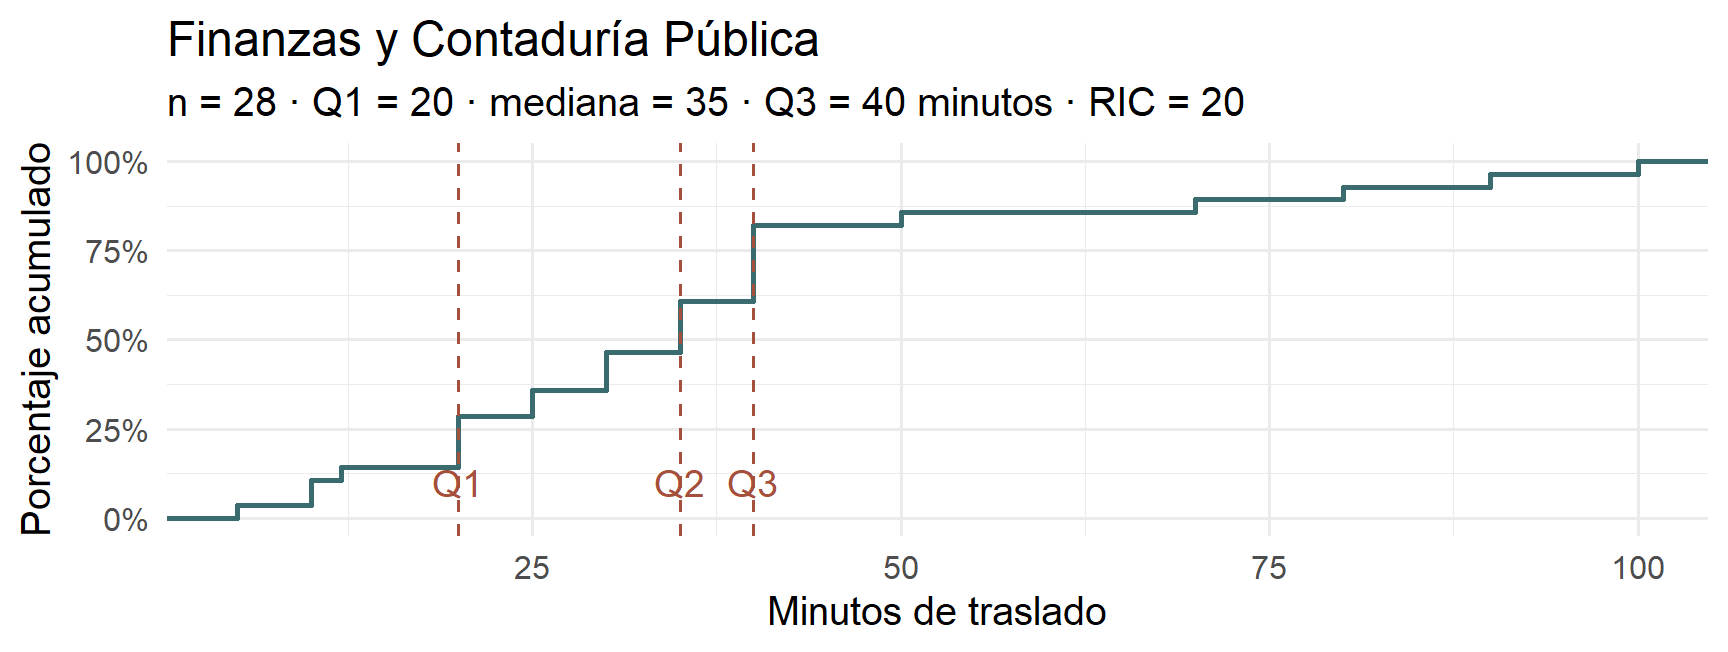
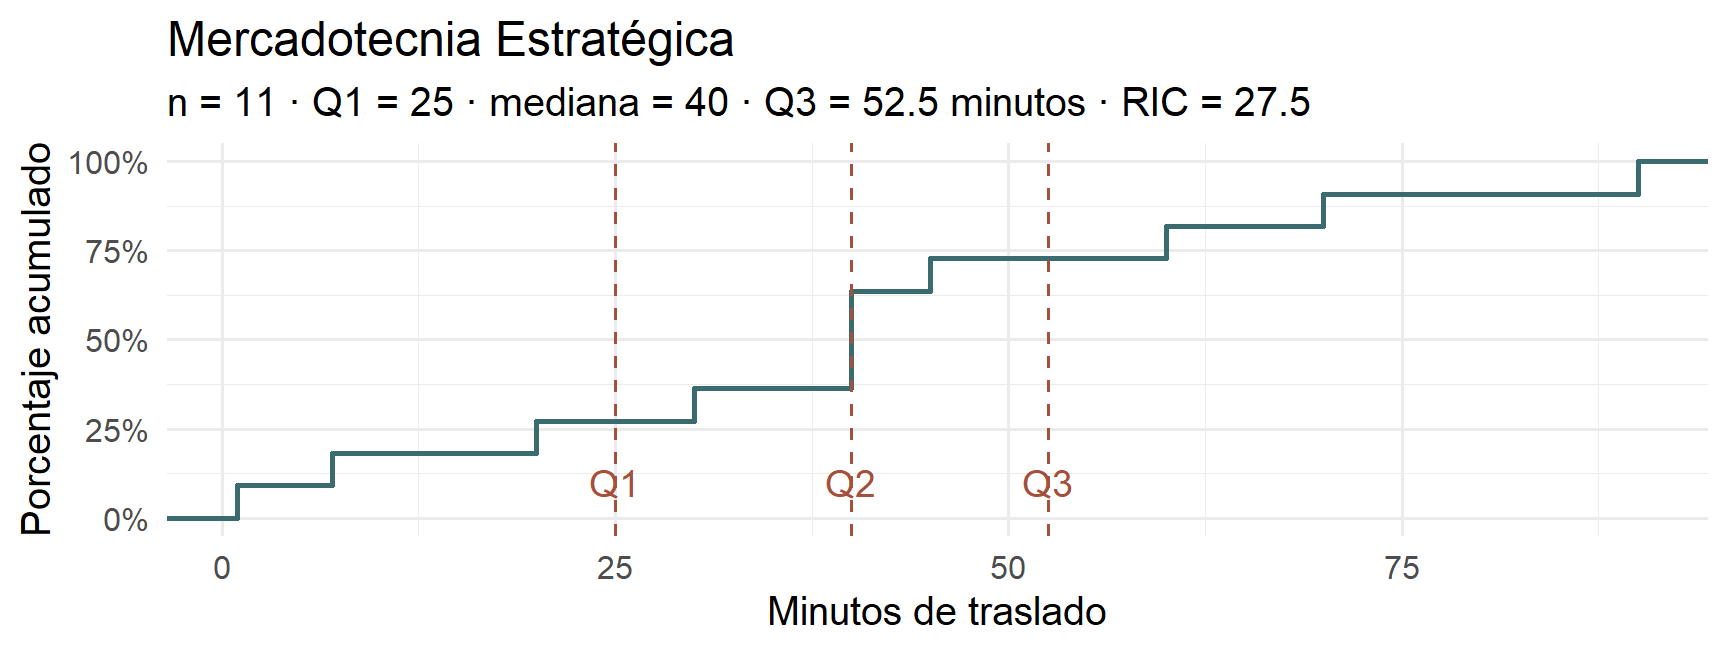
Cierra cuantiles con el diagrama de caja y actualiza el estado de Yahoo
La sesion 10 termina con una lamina que dibuja la caja del traslado y pide
localizar los cinco numeros. La lamina anterior decia que la caja dibuja
exactamente esos cinco numeros; con estos datos es falso: el bigote derecho
termina en 70 minutos y el maximo es 100, porque cuatro respuestas quedan fuera
del alcance que calcula la caja. Esa diferencia se deja como pregunta y abre la
sesion 11, que pasa de presentacion a profundizacion.

La pregunta no dice cuantos puntos quedan fuera: son cuatro respuestas y se ven
tres, porque dos personas contestaron 90.

Las portadas con imagen de fondo ponen el titulo en blanco con sombra. El verde
oscuro de la paleta se perdia sobre la foto; afecta tambien a la sesion 4.

El catalogo registraba Yahoo como bloqueado. El 23 de septiembre quantmod
descargo TSLA, AAPL, NVDA, WALMEX.MX e IPC sin problema. Se registra como
intermitente, con las dos fechas, porque no hay API oficial y el 12 de septiembre
si respondio 429.

diff --git a/estilo-slides.scss b/estilo-slides.scss
@@ -216,3 +216,13 @@ $presentation-slide-text-align: left;
   font-size: 0.5em;
   color: #6C7A7B;
 }
+
+// Portada con imagen de fondo: el texto oscuro de la paleta se pierde sobre una
+// foto. Solo aplica a portadas que declaran data-background-image; las de fondo
+// liso conservan el color de encabezado.
+.reveal #title-slide[data-background-image] {
+  .title, .subtitle, .quarto-title-author-name, .author {
+    color: #FFFFFF;
+    text-shadow: 0 2px 10px rgba(0, 0, 0, 0.65);
+  }
+}
